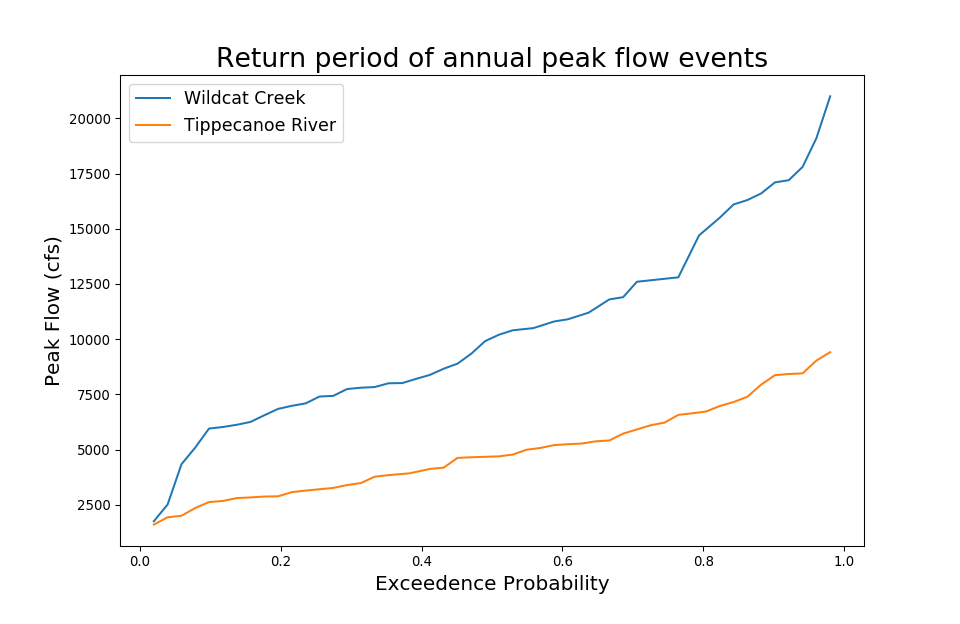
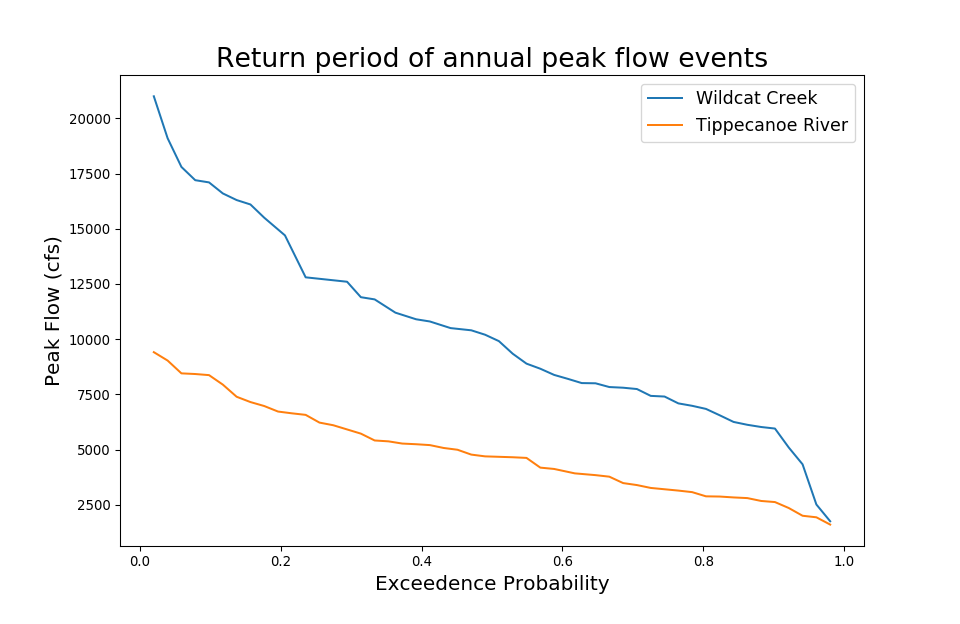
final revision

diff --git a/program_11.py b/program_11.py
@@ -214,7 +214,7 @@ if __name__ == '__main__':
 
     for i in range(2):
         df = list_pf[i]
-        df['rank'] = df.rank()
+        df['rank'] = df.rank(ascending=False)
         df['p'] = df['rank']/(len(df)+1)
     
     plt.plot(pfW['p'], pfW[0], label='Wildcat Creek')
